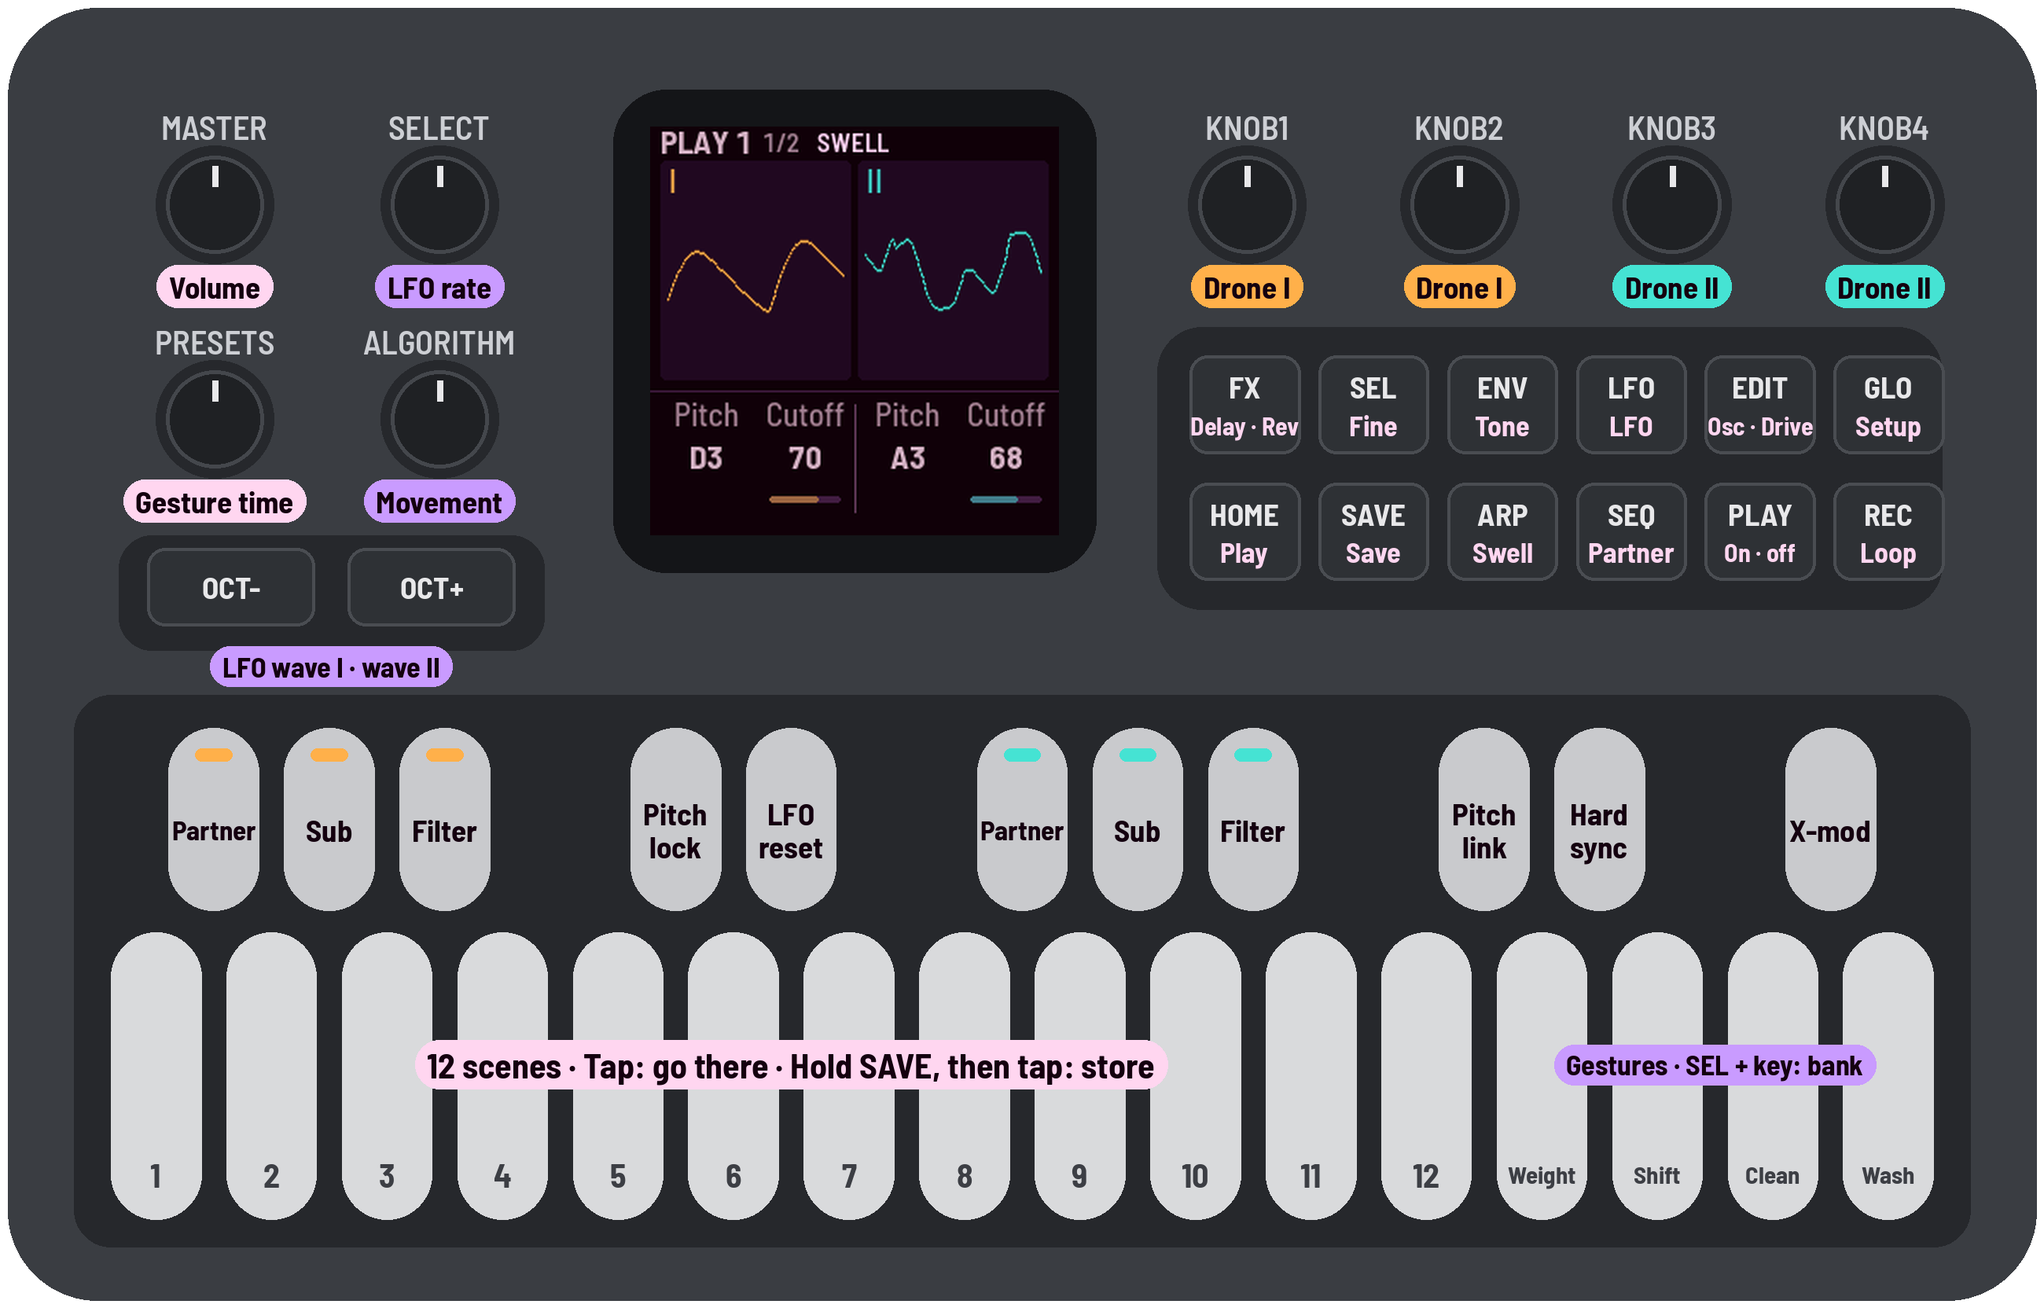
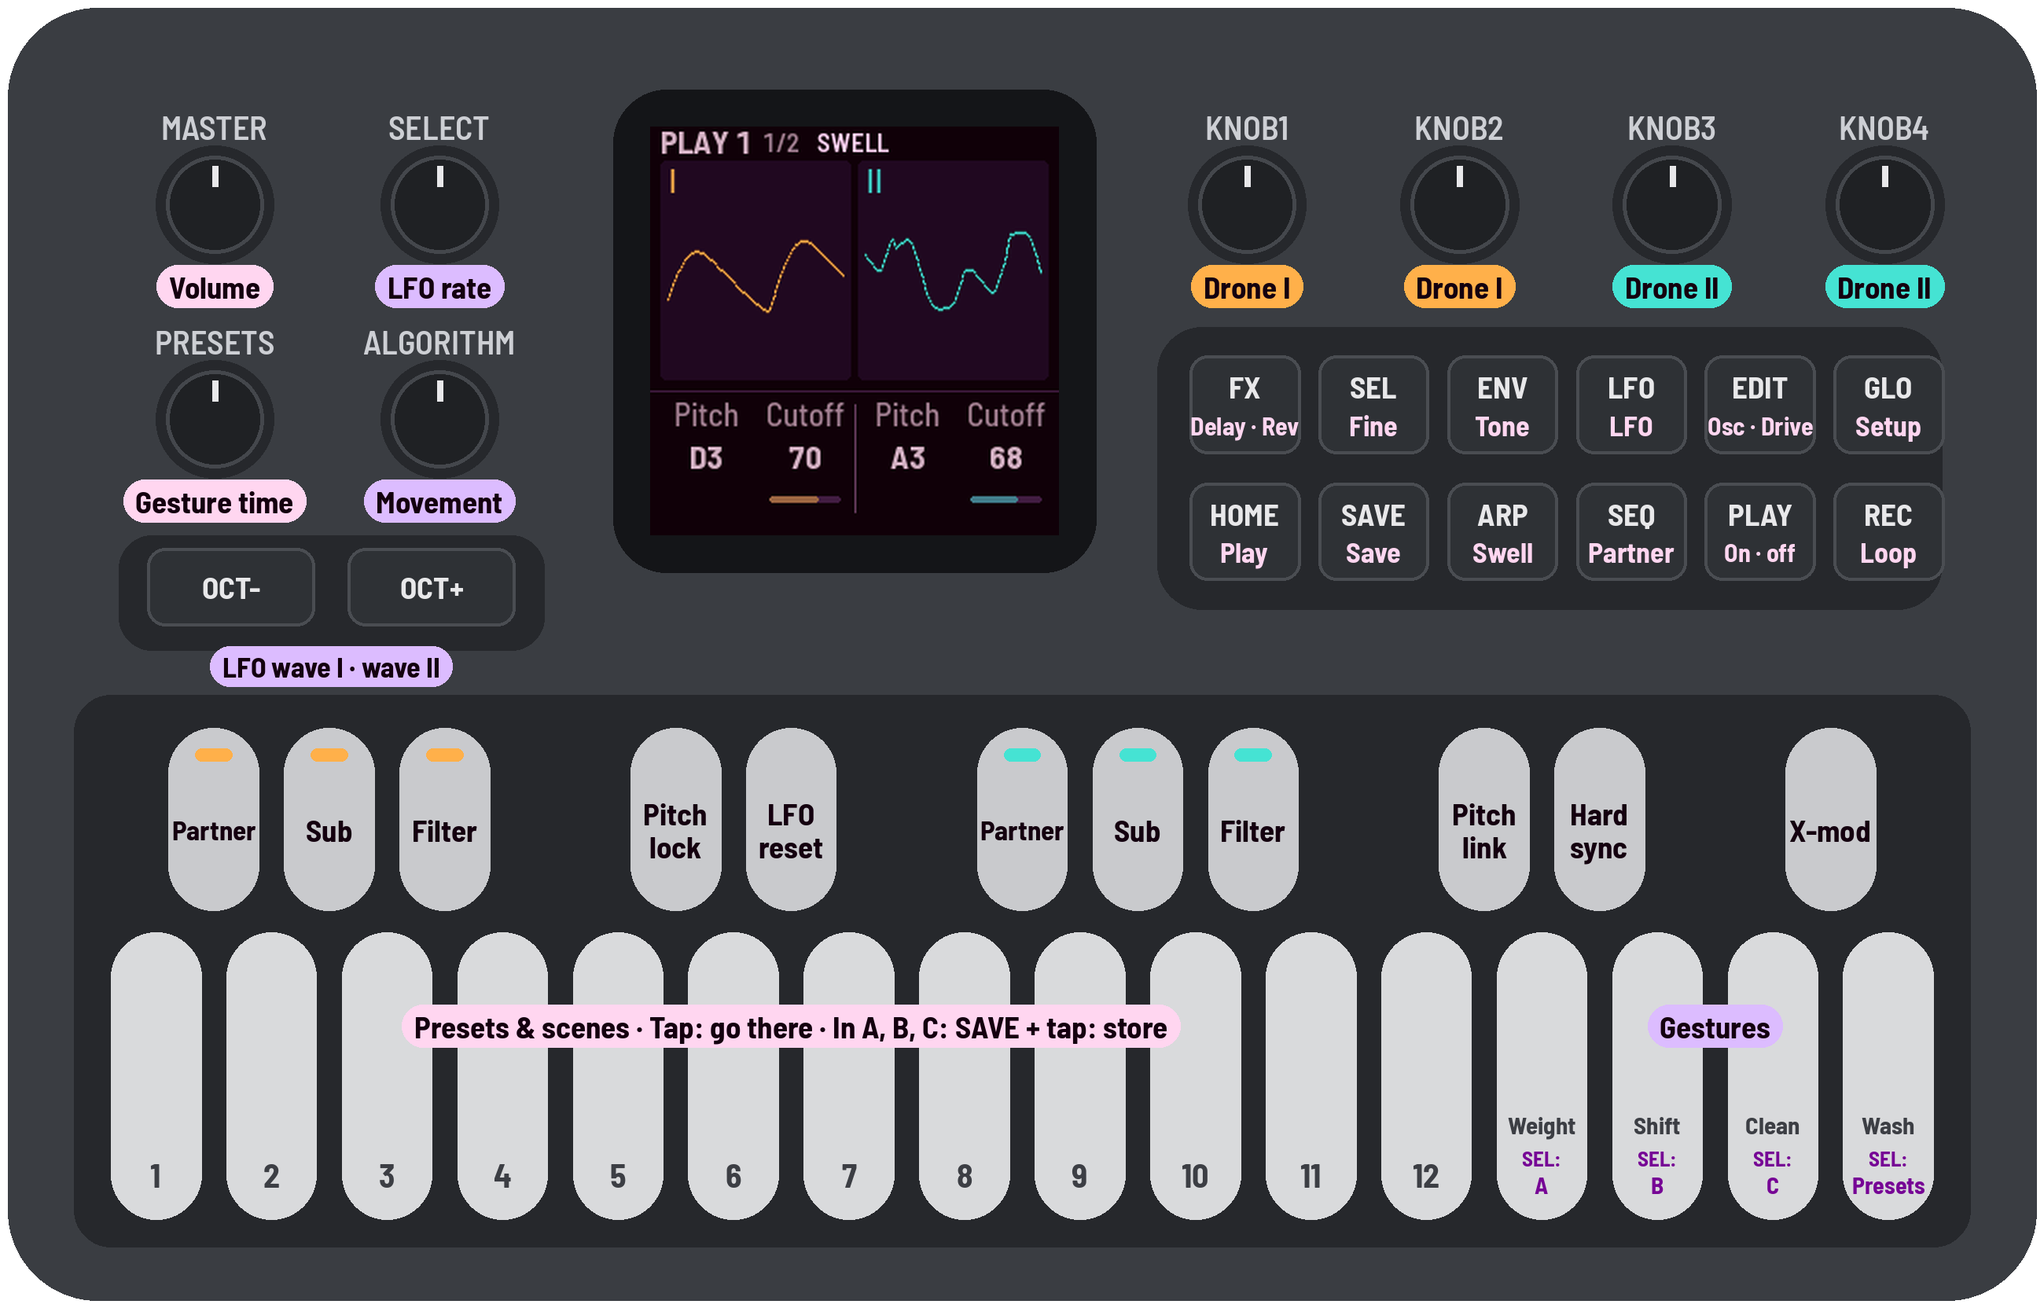
Emulator labels: the LFO pages' black keys, gestures with their banks, the site's colours, hover texts
The black keys' names follow the page as the keys do (the LFO pages' routing there; web_keys_lfo, tested in
emu_test). The lower white keys say they hold presets and scenes, storing only in A, B or C; the top four are
named gestures with their bank under each (SEL: A, B, C, Presets), in the README picture too. Labels take the
site's tokens (--d1, --d2, --lfo, --pale, --violet; the lilac was the picture's own), all 6.7:1 or more. The
LFO wave pill fits its words (its width now counts the letter spacing). Hover texts: keys 13-16 are gestures,
not scenes 13-16; storing is in A, B or C; SEL's and PLAY's other jobs; Pitch lock keeps scenes' pitch.

diff --git a/web/emu/index.html b/web/emu/index.html
@@ -22,7 +22,7 @@
 @font-face { font-family: "IBM Plex Mono"; src: url("fonts/ibm-plex-mono-500.woff2") format("woff2"); font-weight: 500; font-style: normal; font-display: swap; }
 @font-face { font-family: "Barlow Semi Condensed"; src: url("fonts/barlow-semi-condensed-600.woff2") format("woff2"); font-weight: 600; font-style: normal; font-display: swap; }
 @font-face { font-family: "Barlow Semi Condensed"; src: url("fonts/barlow-semi-condensed-700.woff2") format("woff2"); font-weight: 700; font-style: normal; font-display: swap; }
-:root { --red: #fe0000; --violet: #760595; --shade: #3a0254; --black: #14000f; --pale: #ffd6f0;
+:root { --red: #fe0000; --violet: #760595; --shade: #3a0254; --black: #14000f; --pale: #ffd6f0; --d1: #ffb04a; --d2: #45e3d3; --lfo: #dcbcff;
         --ground: #ffffff14; --ink: #fbe9f2; --muted: #d3b3c4; --rule: #ffffff2e; --accent: #ffd6f0; --card: #3a1235;
         --card-violet: #601690; --card-dark: #060007; --mono: "IBM Plex Mono", ui-monospace, Menlo, monospace; color-scheme: dark; }
 body { background: var(--red); color: var(--black); margin: 0; padding-inline: 16px; padding-block: 0; position: relative; overflow-x: hidden;
@@ -71,7 +71,7 @@ a { color: var(--accent); }
 .ctl.knob { cursor: ns-resize; }
 .btnface { transition: fill .06s; }
 .lit .btnface { fill: #f28a5a; }
-.lit text.btn, .lit text.job { fill: #2a140a; }
+.lit text.btn, .lit text.job { fill: #2a140a !important; }   /* over the labels' own colours */
 .held .btnface, .held .keyface { stroke: #f28a5a; stroke-width: 3; }
 .latched .btnface { stroke: #6fc3ff; stroke-width: 3; }
 .keyface { transition: fill .06s; }
@@ -602,20 +602,20 @@ function el(tag, attrs, parent = svg) {
 }
 function text(parent, x, y, s, size, fill = LABEL, weight = 600, cls = "btn") {
   const t = el("text", { x, y, "text-anchor": "middle", "font-family": "'Barlow Semi Condensed', 'Arial Narrow', Arial, sans-serif",
-                         "font-size": size, "font-weight": weight, fill, "letter-spacing": ".05em", class: cls, "pointer-events": "none" }, parent);
+                         "font-size": size, "font-weight": weight, style: `fill: ${fill}`, "letter-spacing": ".05em", class: cls, "pointer-events": "none" }, parent);
   t.textContent = s;
   return t;
 }
 
 // what each control does in Niagara Drift, written on the panel as in the README's picture (tools/make_screens.py)
-const AMBER = "#ffb04a", TEAL = "#45e3d3", LILAC = "#c99bff", PALE = "#ffd6f0", INK = "#14000f";
+const AMBER = "var(--d1)", TEAL = "var(--d2)", LILAC = "var(--lfo)", PALE = "var(--pale)", INK = "var(--black)", ON_KEY = "var(--violet)";   // the site's palette
 const pills = [];
 function pill(x, y, s, bg, size = 15) {            // a job in a rounded label, centred on (x, y)
-  const g = el("g", { "aria-hidden": "true" }), r = el("rect", { y: y - size * .7, height: size * 1.4, rx: size * .7, fill: bg }, g);
+  const g = el("g", { "aria-hidden": "true" }), r = el("rect", { y: y - size * .7, height: size * 1.4, rx: size * .7, style: `fill: ${bg}` }, g);
   pills.push({ r, t: text(g, x, y + size * .35, s, size, INK, 700, "job"), x });
 }
 function fitPills() {                               // each label as wide as its words, once the font is in
-  for (const p of pills) { const w = p.t.getComputedTextLength() + 12; p.r.setAttribute("x", p.x - w / 2); p.r.setAttribute("width", w); }
+  for (const p of pills) { const w = p.t.getBBox().width + 12; p.r.setAttribute("x", p.x - w / 2); p.r.setAttribute("width", w); }
 }
 
 // ---------------------------------------------------------------- the panel
@@ -658,28 +658,42 @@ for (let i = 0; i < 6; i++) {
   button(582 + i * 63, 236, 54, 48, ...ROW2[i]);
 }
 
-const keys = [], GESTURES = ["Weight", "Shift", "Clean", "Wash"];
+const keys = [], GESTURES = ["Weight", "Shift", "Clean", "Wash"], BANKS = ["A", "B", "C", "Presets"];
 const BLACK_JOB = [["Partner", AMBER], ["Sub", AMBER], ["Filter", AMBER], ["Pitch lock"], ["LFO reset"],
   ["Partner", TEAL], ["Sub", TEAL], ["Filter", TEAL], ["Pitch link"], ["Hard sync"], ["X-mod"]];
+const BLACK_LFO = ["Osc wave", "Osc to", "Filter to", "Filter wave", "LFO reset", "Osc wave", "Osc to", "Filter to",   // on the LFO pages
+  "Filter wave", "Delay wave", "X-mod"];
+const blackNames = [];                                // each key's two names: [normal, LFO pages]
 (function keybed(x0, y0, w, h) {
   el("rect", { x: x0, y: y0, width: w, height: h, rx: 18, fill: TRAY });
   const pitch = (w - 24) / 16, kw = pitch * 0.78;
   for (let i = 0; i < 16; i++) {
     const g = el("g", { class: "ctl", role: "button", "aria-label": `white key ${i + 1}` });
     el("rect", { x: x0 + 12 + i * pitch + (pitch - kw) / 2, y: y0 + h * 0.43, width: kw, height: h * 0.52, rx: kw / 2, fill: KEY_W, class: "keyface white" }, g);
-    text(g, x0 + 12 + i * pitch + pitch / 2, y0 + h * 0.95 - 16, i < 12 ? String(i + 1) : GESTURES[i - 12], i < 12 ? 16 : 12, "#3c3e44", 700, "job");
+    const kx = x0 + 12 + i * pitch + pitch / 2, kb = y0 + h * 0.95;
+    if (i < 12) text(g, kx, kb - 16, String(i + 1), 16, "#3c3e44", 700, "job");
+    else {                                          // a gesture, and with SEL the bank it picks
+      text(g, kx, kb - 42, GESTURES[i - 12], 12, "#3c3e44", 700, "job");
+      text(g, kx, kb - 26, "SEL:", 10.5, ON_KEY, 700, "job");
+      text(g, kx, kb - 13, BANKS[i - 12], 11.5, ON_KEY, 700, "job");
+    }
     keys[WHITE_K[i]] = { g };
   }
   BLACK_AFTER.forEach((a, k) => {
     const g = el("g", { class: "ctl", role: "button", "aria-label": `black key ${k + 1}` });
     el("rect", { x: x0 + 12 + (a + 1) * pitch - kw / 2, y: y0 + h * 0.06, width: kw, height: h * 0.33, rx: kw / 2, fill: KEY_B, class: "keyface black" }, g);
     const [job, col] = BLACK_JOB[k], cx = x0 + 12 + (a + 1) * pitch, words = job.split(" ");
-    if (col) el("rect", { x: cx - 9, y: y0 + h * 0.06 + 10, width: 18, height: 6, rx: 3, fill: col }, g);
-    words.forEach((wd, j) => text(g, cx, y0 + h * 0.06 + h * 0.165 + (j - (words.length - 1) / 2) * 16 + 10, wd, wd.length < 7 ? 15 : 12.5, INK, 700, "job"));
+    if (col) el("rect", { x: cx - 9, y: y0 + h * 0.06 + 10, width: 18, height: 6, rx: 3, style: `fill: ${col}` }, g);
+    const names = [job, BLACK_LFO[k]].map((nm, l) => {
+      const n = el("g", l ? { class: "lfo", display: "none" } : {}, g), ws = nm.split(" ");
+      ws.forEach((wd, j) => text(n, cx, y0 + h * 0.06 + h * 0.165 + (j - (ws.length - 1) / 2) * 16 + 10, wd, wd.length < 7 ? 15 : 12.5, l ? ON_KEY : INK, 700, "job"));
+      return n;
+    });
+    blackNames.push(names);
     keys[BLACK_K[k]] = { g };
   });
-  pill(x0 + 12 + 6 * pitch, y0 + h * 0.67, "12 scenes · Tap: go there · Hold SAVE, then tap: store", PALE, 17);
-  pill(x0 + 12 + 14 * pitch, y0 + h * 0.67, "Gestures · SEL + key: bank", LILAC, 14);
+  pill(x0 + 12 + 6 * pitch, y0 + h * 0.6, "Presets & scenes · Tap: go there · In A, B, C: SAVE + tap: store", PALE, 15);
+  pill(x0 + 12 + 14 * pitch, y0 + h * 0.6, "Gestures", LILAC, 15);
 })(36, 340, 928, 270);
 
 // ---------------------------------------------------------------- touch targets
@@ -700,11 +714,11 @@ function hit(c, cls) {
   c.hit = d;
 }
 // what each control does, on hover (the Buttons list below says the same)
-const TIP = { FX: "Delay: type, time, repeats, mix (again: Reverb: type, length to Inf, damp, mix)", SEL: "Hold while turning: fine (pitch in cents, cutoff and resonance in tenths)",
-  ENV: "Tone 1: noise and its colour, white to pink (again: Life: character, feedback, age, drift); hold to peek", LFO: "LFO depths: each drone's osc and filter depth; the keys pick the routing (again: Mods: rate mod, cross-mod amount, delay LFO)",
+const TIP = { FX: "Delay: type, time, repeats, mix (again: Reverb: type, length to Inf, damp, mix)", SEL: "Hold while turning: fine (pitch in cents, cutoff and resonance in tenths); with a top white key: a bank (A, B, C, Presets); with PLAY: drone II alone",
+  ENV: "Tone 1: noise and its colour, white to pink (again: Life: character, feedback, age, drift); hold to peek", LFO: "LFO depths: each drone's osc and filter depth; the keys pick the routing (again: Mods: rate mod, mod by, X-mod amount, delay LFO)",
   EDIT: "Osc: X-Wave, pulse width (again: Sub · Drive: osc mix, drive); hold to peek", GLO: "Setup 1: fade, switch time, scene time (again: Setup 2: tune, stereo width, pressure)",
-  HOME: "Play 1: pitch, cutoff (again: Play 2: levels, resonance)", SAVE: "Save; hold it first, then tap a white key: store a scene", ARP: "Swell: tap on / off, hold to peek at its page, tap twice to stay on it", SEQ: "Partner: interval, detune (again: Pitch moves: Shift's move, pitch glide, Wander, its scale)",
-  PLAY: "Drone in / out", REC: "Motion loop: tap to record knob moves, again to loop, again to stop", "OCT-": "LFO Wave I: tap for the next shape (with SEL: the one before)", "OCT+": "LFO Wave II: tap for the next shape (with SEL: the one before)",
+  HOME: "Play 1: pitch, cutoff (again: Play 2: levels, resonance)", SAVE: "Save; hold it first, then tap a white key: store a scene (in bank A, B or C)", ARP: "Swell: tap on / off, hold to peek at its page, tap twice to stay on it", SEQ: "Partner: interval, detune (again: Pitch moves: Shift's move, pitch glide, Wander, its scale)",
+  PLAY: "Drones in / out (with SEL: drone II alone)", REC: "Motion loop: tap to record knob moves, again to loop, again to stop", "OCT-": "LFO Wave I: tap for the next shape (with SEL: the one before)", "OCT+": "LFO Wave II: tap for the next shape (with SEL: the one before)",
   SELECT: "LFO rate", PRESETS: "Gesture time: every gesture faster or slower", ALGORITHM: "Movement: every LFO depth together",
   KNOB1: "Drone I", KNOB2: "Drone I", KNOB3: "Drone II", KNOB4: "Drone II", MASTER: "Volume" };
 for (const [n, c] of [...Object.entries(buttons), ...Object.entries(knobs)]) if (TIP[n]) c.g.setAttribute("aria-description", TIP[n]);
@@ -712,7 +726,7 @@ for (const [n, c] of [...Object.entries(buttons), ...Object.entries(knobs)]) if 
 const BLACK_TIP = [["drone I's partner on / off", "drone I's osc wave: I, II, both"],
   ["drone I's sub: −1 oct, −2 oct, ⅓, ⅕", "drone I's osc LFO to X-Wave (instead of pitch)"],
   ["drone I's filter: LP, BP, HP", "drone I's filter LFO to resonance (instead of cutoff)"],
-  ["pitch lock: the pitch knobs do nothing", "drone I's filter wave: I, II, both"],
+  ["pitch lock: the pitch knobs do nothing, and scenes keep your pitch (on at start)", "drone I's filter wave: I, II, both"],
   ["LFO reset (hold: lock the LFO to the Swell)", "LFO reset (hold: lock the LFO to the Swell)"],
   ["drone II's partner on / off", "drone II's osc wave: I, II, both"],
   ["drone II's sub: −1 oct, −2 oct, ⅓, ⅕", "drone II's osc LFO to X-Wave (instead of pitch)"],
@@ -722,8 +736,11 @@ const BLACK_TIP = [["drone I's partner on / off", "drone I's osc wave: I, II, bo
   ["I → II cutoff: drone I's sound moves drone II's filter", "I → II cutoff: drone I's sound moves drone II's filter"]];
 BLACK_K.forEach((n, k) => keys[n].g.setAttribute("aria-description", `Key ${k + 1} (${"1234567890-"[k]}): ${BLACK_TIP[k][0]}` +
   (BLACK_TIP[k][1] !== BLACK_TIP[k][0] ? `; on the LFO pages: ${BLACK_TIP[k][1]}` : "")));
-WHITE_K.forEach((n, k) => keys[n].g.setAttribute("aria-description",
-  `Scene ${k + 1} (${"QWERTYUIASDFGHJK"[k]}): tap to go there, hold to visit; hold SAVE first, then this key, to store; blinks while it's the sound`));
+WHITE_K.forEach((n, k) => keys[n].g.setAttribute("aria-description", k < 12
+  ? `Scene ${k + 1} (${"QWERTYUIASDFGHJK"[k]}): tap to go there, hold to visit and let go to come back (on the FM-1, press harder to blend in); ` +
+    `in bank A, B or C, hold SAVE first, then this key, to store (the Presets are fixed); blinks while it's the sound`
+  : `${GESTURES[k - 12]} (${"QWERTYUIASDFGHJK"[k]}): a gesture: hold to bring it in, let go and it leaves as slowly as you held it; ` +
+    `tap: all the way, to stay. With SEL: bank ${BANKS[k - 12]}`));
 fitPills();
 document.fonts.ready.then(fitPills);
 for (const k of Object.values(knobs)) hit(k, "knob");
@@ -894,6 +911,12 @@ function drawLights(b, k, lv) {
   }
   keys.forEach((x, i) => x.g.classList.toggle("lit", !!(k & (1 << i))));
 }
+let lfoLayer = 0;
+function drawLayer(lfo) {                           // the black keys' names follow the page, as the keys do
+  if (!!lfo === !!lfoLayer) return;
+  lfoLayer = lfo;
+  for (const [n, l] of blackNames) { n.setAttribute("display", lfo ? "none" : "inline"); l.setAttribute("display", lfo ? "inline" : "none"); }
+}
 
 // ---------------------------------------------------------------- storage
 function loadStore() {
@@ -935,6 +958,7 @@ async function switchOn() {
         else if (m.type === "frame") {
           if (m.fb) drawScreen(m.fb);
           drawLights(m.buttons, m.keys, m.levels);
+          drawLayer(m.lfo);
           window.omniLast = m;
           if (m.load !== undefined) cpu.textContent = `Niagara Drift uses ${m.load}% of this computer's time`;
           if (m.store) saveStore(m.store);

diff --git a/web/emu/worklet.js b/web/emu/worklet.js
@@ -61,7 +61,7 @@ class Omni extends AudioWorkletProcessor {
   publish() {
     const ex = this.ex;
     const blits = ex.web_blits();
-    const msg = { type: "frame", buttons: ex.web_lit_buttons() >>> 0, keys: ex.web_lit_keys() >>> 0,
+    const msg = { type: "frame", buttons: ex.web_lit_buttons() >>> 0, keys: ex.web_lit_keys() >>> 0, lfo: ex.web_keys_lfo(),
                   levels: Array.from(new Uint8Array(this.mem.buffer, ex.web_btn_levels(), 14)) };
     if (this.frames >= 44100) {                       // the share of real time spent running the device
       msg.load = Math.round(100 * this.busy / (this.frames / 44.1));

diff --git a/tools/make_screens.py b/tools/make_screens.py
@@ -40,7 +40,8 @@ def main():
 # the panel, in the emulator's units (web/emu/index.html: a 1000 x 640 drawing)
 BODY, TRAY, KNOB, BTN, LABEL = (58, 61, 66), (38, 40, 44), (31, 33, 36), (46, 49, 53), (232, 232, 234)
 KEY_W, KEY_B = (217, 218, 220), (201, 202, 205)
-AMBER, TEAL, LILAC, PALE, INK = (255, 176, 74), (69, 227, 211), (201, 155, 255), (255, 214, 240), (20, 0, 15)
+AMBER, TEAL, LILAC, PALE, INK = (255, 176, 74), (69, 227, 211), (220, 188, 255), (255, 214, 240), (20, 0, 15)   # the site's
+VIOLET = (118, 5, 149)                                       # the site's violet: the banks on the gesture keys
 KNOBS = [(105, 100, "MASTER", "Volume", PALE), (215, 100, "SELECT", "LFO rate", LILAC),
          (105, 205, "PRESETS", "Gesture time", PALE), (215, 205, "ALGORITHM", "Movement", LILAC)] + \
         [(610 + i * 104, 100, "KNOB%d" % (i + 1), "Drone I" if i < 2 else "Drone II", AMBER if i < 2 else TEAL)
@@ -98,9 +99,15 @@ def panel(play_png):
     for i in range(16):
         x = x0 + 12 + i * pitch + (pitch - kw) / 2
         rect(x, y0 + h * .43, kw, h * .52, kw / 2, KEY_W)
-        label = str(i + 1) if i < 12 else ("Weight", "Shift", "Clean", "Wash")[i - 12]   # 12 scenes, 4 gestures
-        d.text((P(x + kw / 2), P(y0 + h * .43 + h * .52 - 22)), label, font=f(16 if i < 12 else 12), fill=(60, 62, 68),
-               anchor="mm")
+        kb = y0 + h * .95                                       # 12 scenes; 4 gestures, each with SEL a bank
+        if i < 12:
+            d.text((P(x + kw / 2), P(kb - 22)), str(i + 1), font=f(16), fill=(60, 62, 68), anchor="mm")
+        else:
+            d.text((P(x + kw / 2), P(kb - 46)), ("Weight", "Shift", "Clean", "Wash")[i - 12], font=f(12), fill=(60, 62, 68),
+                   anchor="mm")
+            d.text((P(x + kw / 2), P(kb - 30)), "SEL:", font=f(10.5), fill=VIOLET, anchor="mm")
+            d.text((P(x + kw / 2), P(kb - 17)), ("A", "B", "C", "Presets")[i - 12], font=f(11.5), fill=VIOLET,
+                   anchor="mm")
     for k, a in enumerate(BLACK_AFTER):
         x = x0 + 12 + (a + 1) * pitch - kw / 2
         job, col = BLACK[k]
@@ -111,9 +118,9 @@ def panel(play_png):
         for j, wd in enumerate(words):
             d.text((P(x + kw / 2), P(y0 + h * .06 + h * .33 / 2 + (j - (len(words) - 1) / 2) * 16 + 5)), wd,
                    font=f(15 if len(wd) < 7 else 13.5), fill=INK, anchor="mm")
-    pill(x0 + 12 + 6 * pitch, y0 + h * .43 + h * .24, "12 scenes · Tap: go there · Hold SAVE, then tap: store", INK,
-         PALE, 17)
-    pill(x0 + 12 + 14 * pitch, y0 + h * .43 + h * .24, "Gestures · SEL + key: bank", INK, LILAC, 14)
+    pill(x0 + 12 + 6 * pitch, y0 + h * .6, "Presets & scenes · Tap: go there · In A, B, C: SAVE + tap: store", INK,
+         PALE, 15)
+    pill(x0 + 12 + 14 * pitch, y0 + h * .6, "Gestures", INK, LILAC, 15)
     return img
 
 

diff --git a/web/emu/omni_web.c b/web/emu/omni_web.c
@@ -57,6 +57,7 @@ __attribute__((used, visibility("default"))) void web_enc(int role, int32_t n)
 __attribute__((used, visibility("default"))) void web_master(uint32_t v) { master = v > 4096u ? 4096u : v; }
 __attribute__((used, visibility("default"))) uint32_t web_lit_buttons(void) { return lit_btn; }
 __attribute__((used, visibility("default"))) uint32_t web_lit_keys(void) { return lit_keys; }
+__attribute__((used, visibility("default"))) uint32_t web_keys_lfo(void) { return sw_layer() == SW_LFO; }   /* the black keys' LFO layer */
 __attribute__((used, visibility("default"))) uint8_t *web_btn_levels(void) { return lvl_btn; }
 __attribute__((used, visibility("default"))) uint16_t *web_fb(void) { return fb; }
 __attribute__((used, visibility("default"))) uint32_t web_blits(void) { return blits; }
